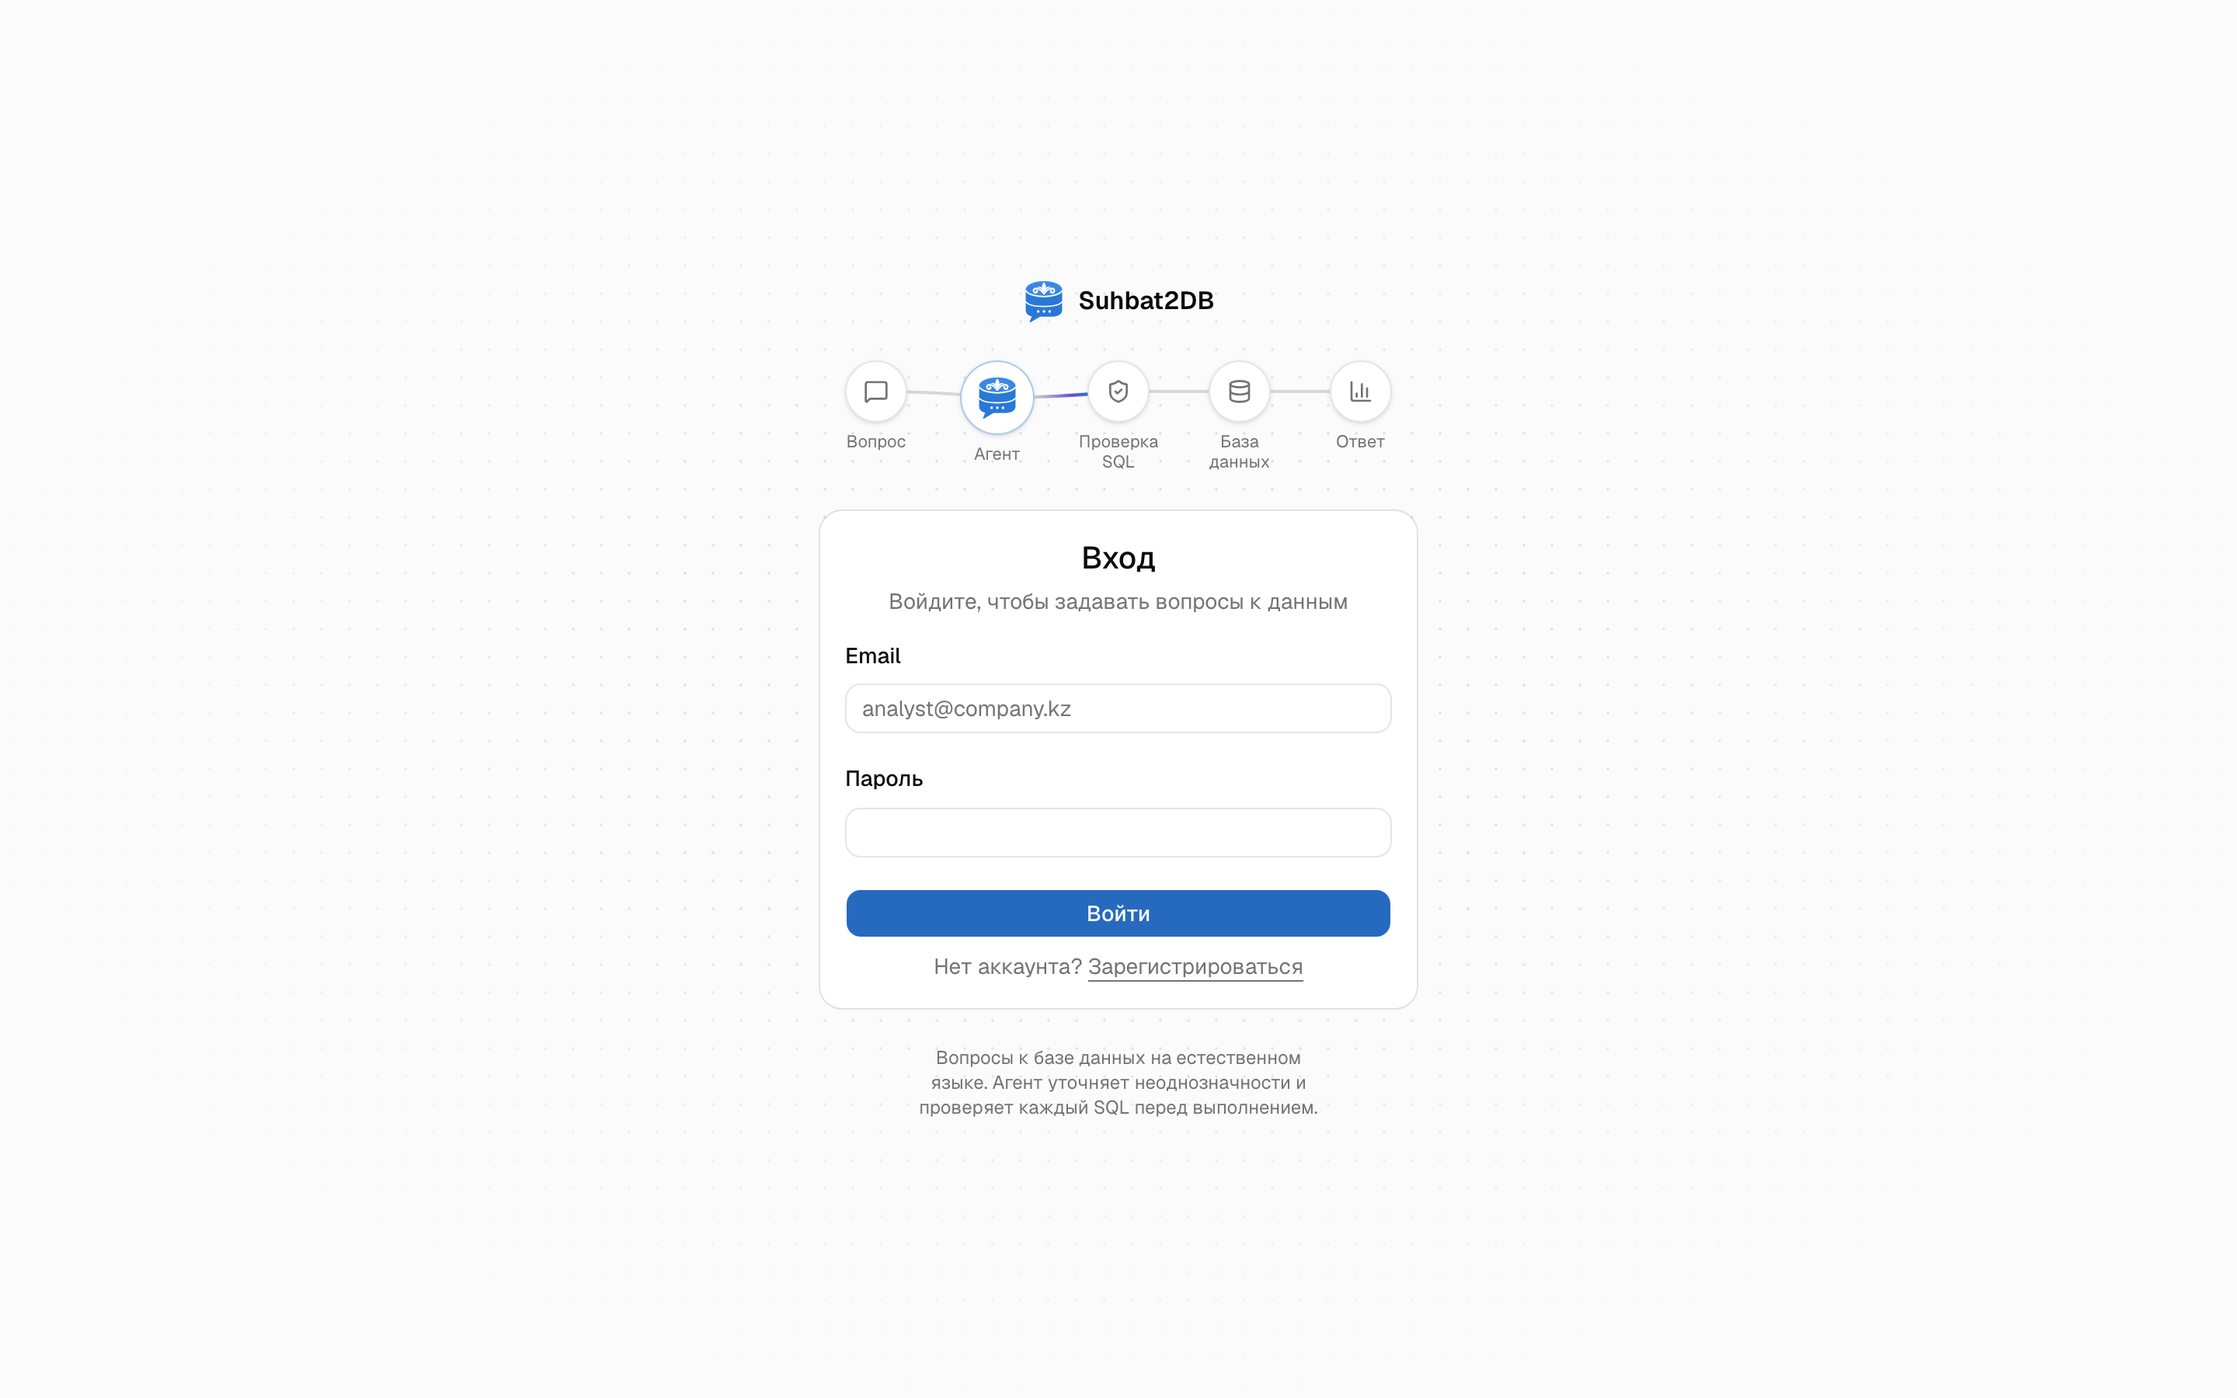
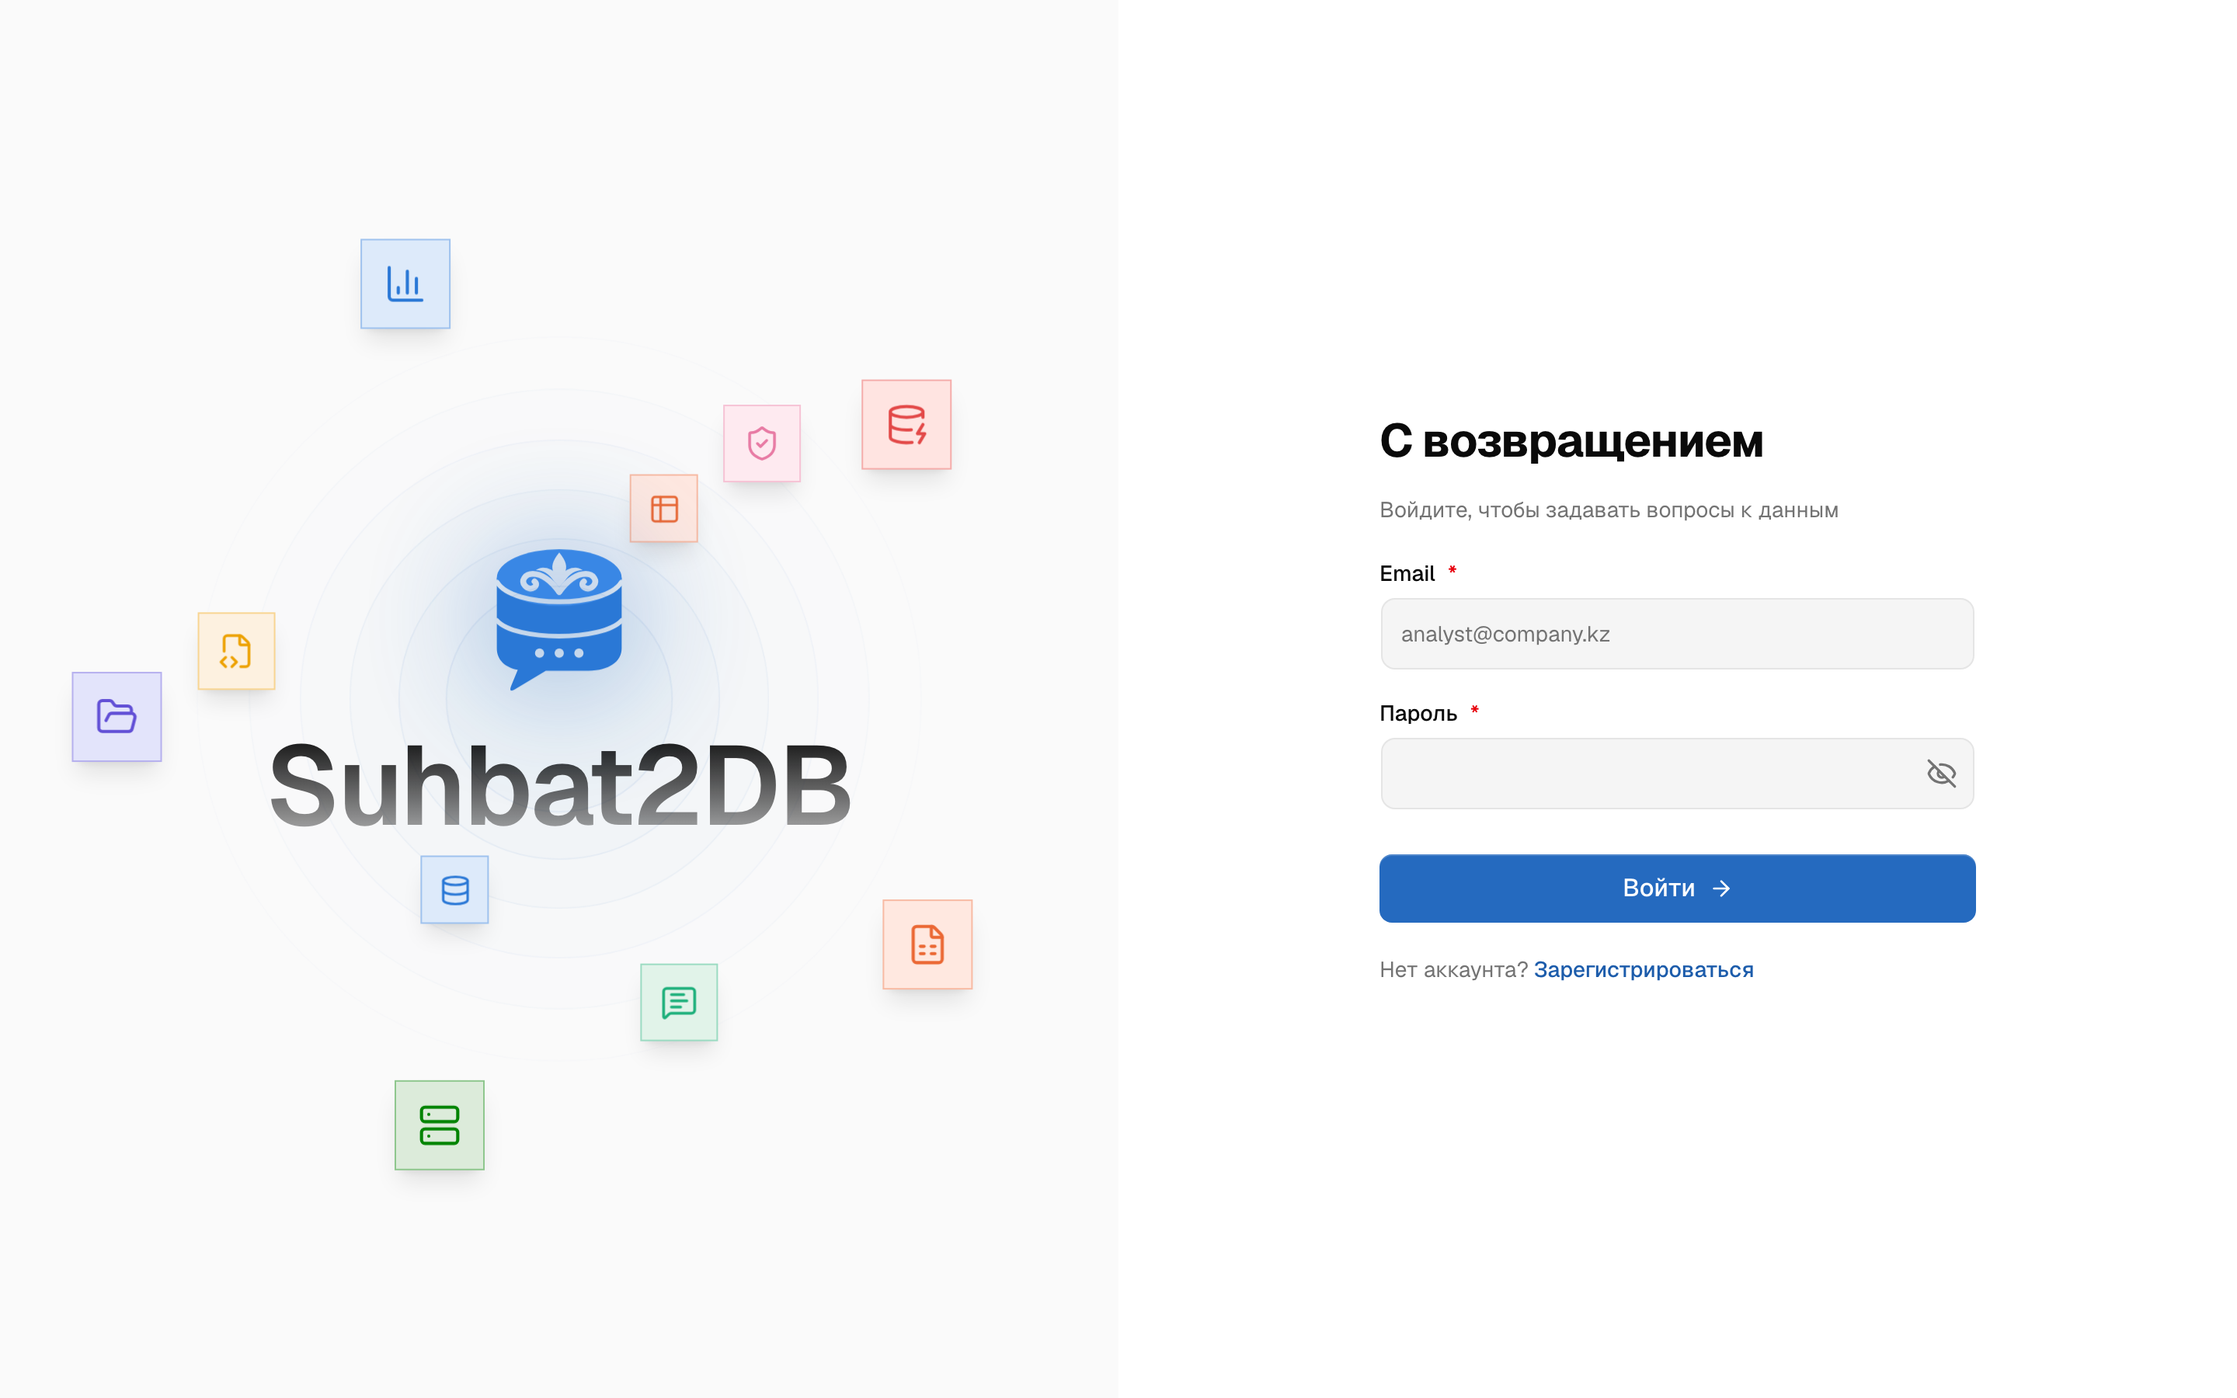
DIP-17: Add Figma prototype and refresh prototype screens
Re-shot all 13 screens after DIP-37/DIP-38. Figma file with a Prototype
page (13 frames, 39 hotspots, timed 05->06 transition, flows C3 and C6)
and a Scenarios page grouping screens by C1-C6 with linked requirements.
docs/prototype/figma.md documents the file, transitions and checks.
README and docs/prototype/README.md link to the prototype.

diff --git a/docs/prototype/figma.md b/docs/prototype/figma.md
@@ -1,0 +1,54 @@
+# Прототип в Figma
+
+Задача YouTrack: [DIP-17](https://wasm.youtrack.cloud/issue/DIP-17). Сценарии и описание экранов: [README.md](README.md).
+
+| | |
+|---|---|
+| Файл | [Suhbat2DB — прототип](https://www.figma.com/design/M1KIz4KLirQv3UrLMaCJO4) |
+| Кликабельный прототип | [С3. Вопрос с уточнением](https://www.figma.com/proto/M1KIz4KLirQv3UrLMaCJO4?node-id=1-3&starting-point-node-id=1%3A3) |
+| Экраны | 13 снимков рабочей версии от 22.10.2026, демо-БД «Продажи в Казахстане» ([screens/](screens/)) |
+
+Прототип собран из снимков работающего приложения: интерфейс уже реализован, поэтому экраны показывают его фактическое состояние, а переходы повторяют реальный сценарий работы. Экраны в Figma не являются редактируемыми макетами.
+
+## Что сделано
+
+- [x] Экраны пересняты с текущей версии (после задач DIP-37 и DIP-38: новая страница входа, обзор без баннера, новый пустой чат)
+- [x] Создан файл **Suhbat2DB — прототип** с двумя страницами
+- [x] Страница **Prototype**: 13 фреймов (12 × 1440 × 900, 1 × 390 × 844), названия совпадают с файлами снимков
+- [x] 39 кликабельных зон и автоматический переход 05 → 06 через 1,5 с
+- [x] Стартовые точки потоков: **«С3. Вопрос с уточнением»** (экран 01) и **«С6. Телефон»** (экран 12)
+- [x] Страница **Сценарии**: группы С1–С6 с уменьшенными экранами, подписями и связанными требованиями
+- [ ] Пройти поток в режиме ▶ Present и проверить переходы
+- [ ] Открыть доступ: **Share → Anyone with the link → can view**
+
+## Переходы
+
+Все переходы: *On click → Navigate to*, анимация *Dissolve* 200 мс.
+
+| Откуда | Кликабельная зона | Куда |
+|---|---|---|
+| 01 Вход | кнопка «Войти» | 02 Обзор |
+| 02 Обзор | «Новый диалог» в шапке | 04 Новый диалог |
+| 04 Новый диалог | пример «Покажи продажи за прошлый квартал» или поле вопроса | 05 Ход агента |
+| 05 Ход агента | автоматически через 1,5 с | 06 Уточнение |
+| 06 Уточнение | кнопка «Продолжить» | 07 Ответ — график |
+| 07–10 Ответ | вкладки «График», «Таблица», «SQL», «Проверка» | соответствующий экран |
+| 07 Ответ — график | поле вопроса | 11 Отказ |
+| 02, 03, 04, 07–11 | меню слева: «Обзор», «Новый диалог», «Источники данных» | 02, 04, 03 |
+
+Экран 12 (телефон) и экран 13 (тёмная тема) показываются отдельно: 12 — стартовая точка потока «С6. Телефон», 13 открывается со страницы «Сценарии».
+
+## Что сделать автору
+
+1. Открыть файл и в правом верхнем углу нажать **▶ Present**. Выбрать поток «С3. Вопрос с уточнением» и пройти его: Войти → Новый диалог → пример вопроса → (ожидание) → Продолжить → вкладки → поле вопроса → отказ → меню.
+2. Если какой-то переход ведёт не туда, в режиме **Prototype** выделить слой «Хотспот: …» в нужном фрейме и поправить цель перехода справа.
+3. **Share → Anyone with the link → can view**, чтобы ссылки из README открывались у руководителя и комиссии без приглашения.
+4. Сообщить, что всё готово: после этого DIP-17 закрывается и ставится тег `pre-defense-1` (DIP-18).
+
+## Как переснять экраны
+
+Нужен запущенный стек (`make up`) и ключ OpenAI; сценарий с уточнением стоит около $0,02. Скрипт Playwright входит под демо-аналитиком `demo.analyst@suhbat2db.kz`, для экрана источников под администратором из `.env`, и сохраняет 13 снимков в `screens/` в разрешении 2×. После пересъёмки снимки в Figma заменяются через заливку слоёв «Снимок» в каждом фрейме.
+
+## Критерий приёмки DIP-17
+
+Сценарий «вопрос → уточнение → ответ» проходится по переходам от экрана входа до вкладок ответа; ссылка на прототип открывается без входа в Figma; ссылка добавлена в README и `docs/prototype/README.md`.

diff --git a/docs/prototype/README.md b/docs/prototype/README.md
@@ -1,6 +1,10 @@
 # Прототип и ключевые сценарии
 
-Интерфейс уже реализован, поэтому прототип в Figma собирается из экранов рабочей версии (снято 21.10.2026 на демо-БД с настоящим агентом). Ссылка на Figma: *будет добавлена*.
+Интерфейс уже реализован, поэтому прототип в Figma собран из экранов рабочей версии (сняты 22.10.2026 на демо-БД с настоящим агентом).
+
+- Кликабельный прототип: [Figma, поток «С3. Вопрос с уточнением»](https://www.figma.com/proto/M1KIz4KLirQv3UrLMaCJO4?node-id=1-3&starting-point-node-id=1%3A3)
+- Файл: [Suhbat2DB — прототип](https://www.figma.com/design/M1KIz4KLirQv3UrLMaCJO4) (страницы «Сценарии» и «Prototype»)
+- Состав, переходы и порядок проверки: [figma.md](figma.md)
 
 ## Сценарии
 
@@ -27,21 +31,10 @@
 | [08_answer_table.png](screens/08_answer_table.png) | Вкладка «Таблица» |
 | [09_answer_sql.png](screens/09_answer_sql.png) | Вкладка «SQL» с историей попыток |
 | [10_answer_validation.png](screens/10_answer_validation.png) | Вкладка «Проверка»: пять уровней валидатора |
-| [11_refusal.png](screens/11_refusal.png) | Отказ на попытку удалить таблицу |
+| [11_refusal.png](screens/11_refusal.png) | Отказ: попытка удалить таблицу распознана как небезопасный запрос |
 | [12_mobile_chat.png](screens/12_mobile_chat.png) | Диалог на телефоне (390 × 844) |
 | [13_dark_chat.png](screens/13_dark_chat.png) | Тёмная тема |
 
-## Как собрать прототип в Figma
+## Как устроен прототип
 
-1. Создать файл, страницу Prototype. Фреймы *Desktop* 1440 × 900 и *iPhone 14* 390 × 844.
-2. Перетащить скриншоты в фреймы (снимки сделаны в 2×, при вставке масштабировать до 1440 по ширине).
-3. В режиме Prototype поверх кнопок нарисовать прозрачные прямоугольники-«хотспоты» и связать переходами *On click → Navigate to*:
-   - 01 «Войти» → 02;
-   - 02 «Новый диалог» → 04;
-   - 04 поле вопроса → 05 (*After delay* 1500 мс) → 06;
-   - 06 «Продолжить» → 07;
-   - 07 вкладки → 08, 09, 10;
-   - 07 поле вопроса → 11;
-   - 02 «Источники данных» → 03.
-4. Стартовым экраном потока сделать 01, поток назвать «С3. Вопрос с уточнением».
-5. *Share → Anyone with the link can view*, ссылку вставить в этот файл и в [README](../../README.md).
+Структура файла, список переходов и порядок пересъёмки экранов описаны в [figma.md](figma.md).

diff --git a/README.md b/README.md
@@ -13,7 +13,7 @@
 | **Тип работы** | Индивидуальный дипломный проект: все этапы (анализ, проектирование, разработка, оценка, документация) выполняет автор |
 | **Сроки** | Октябрь 2026 – май 2027 |
 | **YouTrack** | [wasm.youtrack.cloud/issues/DIP](https://wasm.youtrack.cloud/issues/DIP) · порядок работы с задачами: [docs/project](docs/project/README.md) |
-| **Прототип** | *Figma: ссылка будет добавлена* · [экраны и сценарии](docs/prototype/README.md) · рабочая версия: [запуск](#14-запуск) |
+| **Прототип** | [Figma: кликабельный прототип](https://www.figma.com/proto/M1KIz4KLirQv3UrLMaCJO4?node-id=1-3&starting-point-node-id=1%3A3) · [файл](https://www.figma.com/design/M1KIz4KLirQv3UrLMaCJO4) · [экраны и сценарии](docs/prototype/README.md) · рабочая версия: [запуск](#14-запуск) |
 | **Статус** | Рабочая версия: агент, валидатор, веб-интерфейс и оценка этапа 1 готовы (октябрь 2026). Результаты в [EVALS.md](EVALS.md), план в [docs/roles](docs/roles/README.md) |
 
 > **Suhbat** — от казахского *сұхбат* («беседа, диалог»): разговор с базой данных на естественном языке.
